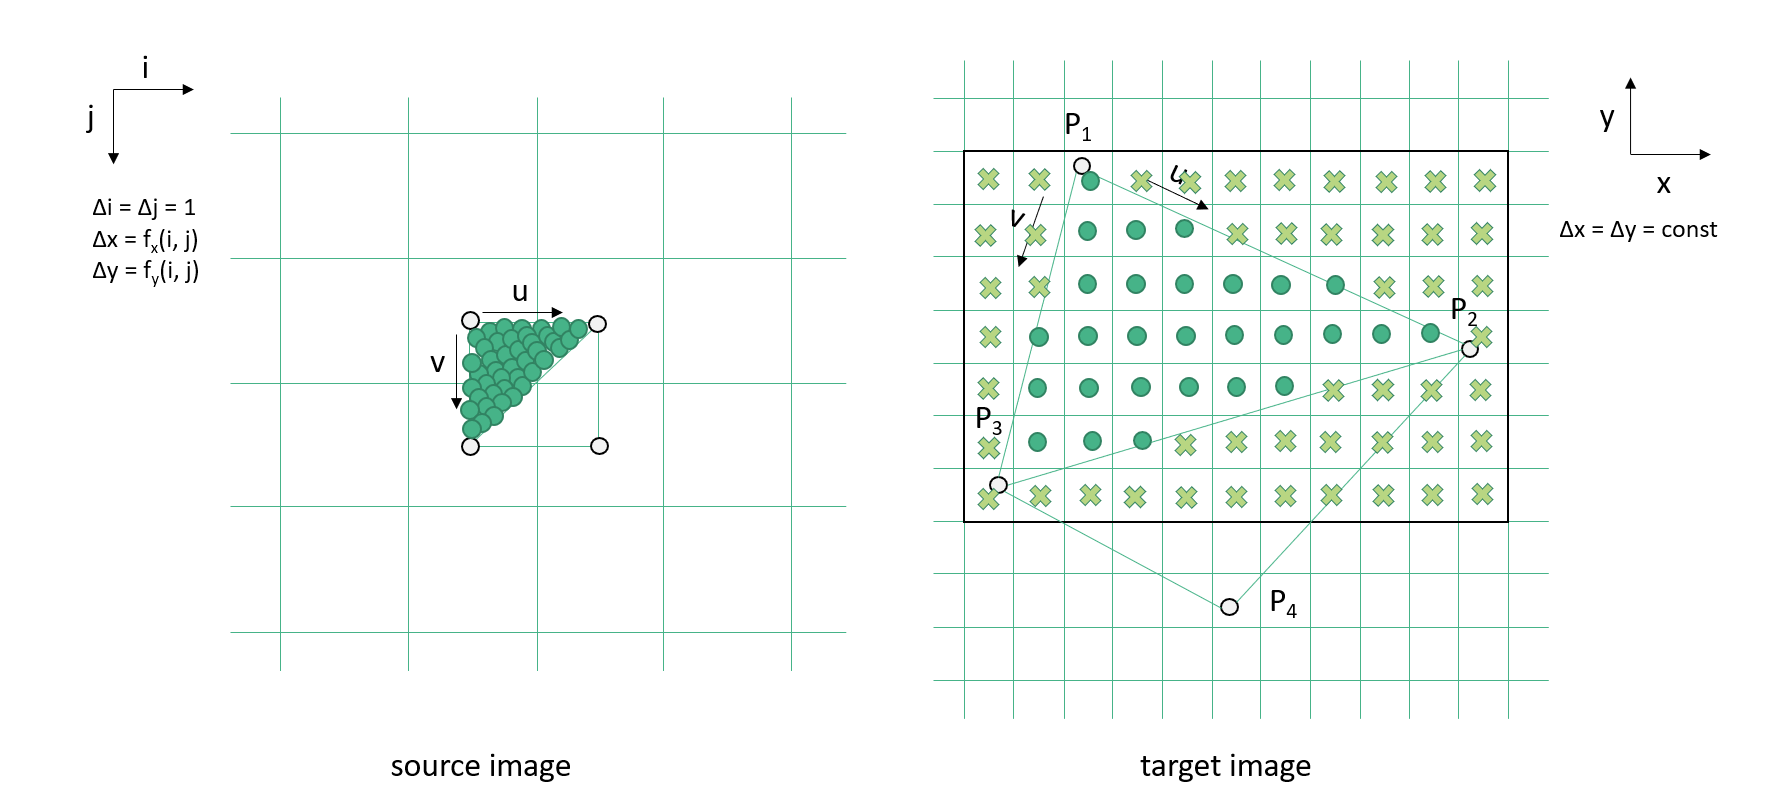
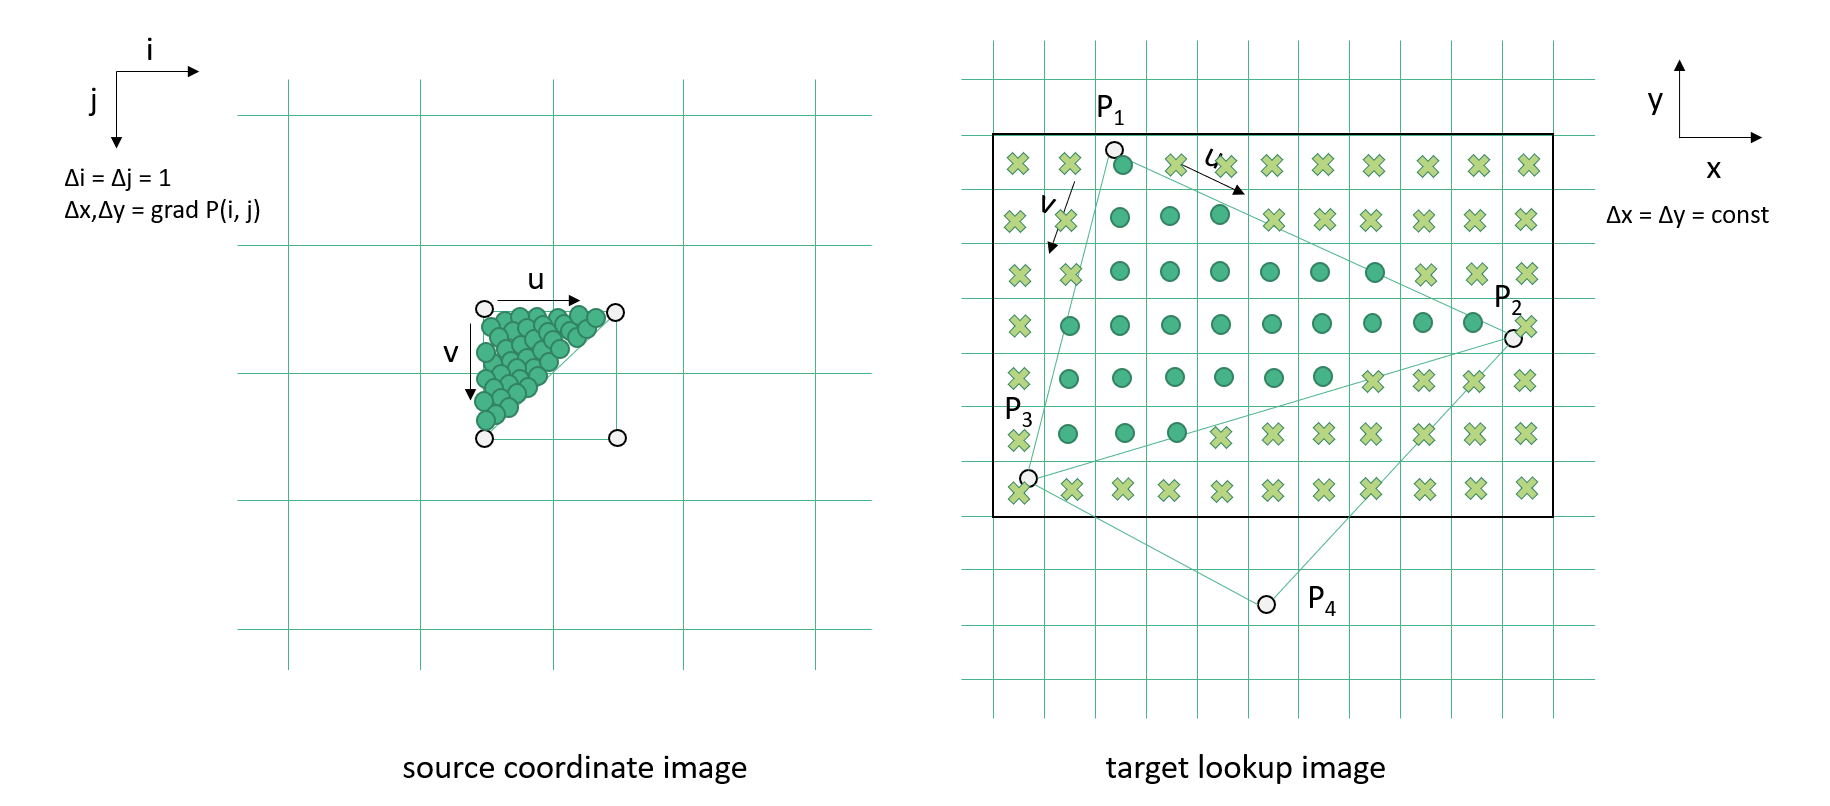
Completed doc.

diff --git a/docs/source/rectify.md b/docs/source/rectify.md
@@ -1,56 +1,112 @@
 # Spatial Rectification Algorithm
 
-This page describes the algorithm used in the function `rectify_dataset()` 
-of module `xcube.core.resampling`. This function performs a rectification of 
-2-dimensional satellite imagery from its original viewing geometry into a 
-common spatial coordinate reference system (CRS) that uses a cartesic 
-coordinate system. 
-It geometrically transforms data variables of a dataset with a provided 
-source image geometry (given as [grid mapping](TODO)) 
-into new data variables for a given target geometry. The source geometry 
-is assumed to be given in satellite perspective in form of two 2-dimensional 
-arrays of spatial coordinates, one for each spatial dimension. 
-We also assume that coordinates of the viewing geometry are already 
-terrain corrected with respect to a digital elevation model (DEM) that 
-represents the Earth's geoid. The following figure illustrates the situation:
+This chapter describes the algorithm used in the function [`rectify_dataset()`](api.html#xcube.core.resampling.rectify_dataset) 
+of module `xcube.core.resampling`. The function geometrically transforms 
+spatial [data variables](https://docs.xarray.dev/en/stable/user-guide/terminology.html#term-Variable) 
+of a given [dataset](https://docs.xarray.dev/en/stable/user-guide/terminology.html#term-Dataset) 
+with from an irregular source 
+[grid mapping](https://cfconventions.org/Data/cf-conventions/cf-conventions-1.11/cf-conventions.html#grid-mappings-and-projections) 
+into new data variables for a given regular target grid mapping and returns 
+them as a new dataset. 
 
-<img src="rectify/geoid.png" alt="Geoid" style="width:40em;display:block;margin-left:auto;margin-right:auto"/>
+## Problem Description
 
-Thus, for each source pixel we have a spatial coordinates pair *x,y* which
+The following figure shows a Sentinel-3 OLCI Level-1b scene in its original 
+satellite perspective. In addition to the measured reflectances, the data 
+product also provides the latitude and longitude for each pixel as two 
+individual coordinate images. To the right, the absolute value of the gradient 
+vectors of the latitude and longitude are shown:  
+
+<!-- <img src="rectify/olci-input.png" alt="OLCI L1B Input" style="width:60em;display:block;margin-left:auto;margin-right:auto"/> -->
+![OLCI L1B Input](rectify/olci-input.png)
+
+The given coordinates, latitude and longitude, are _terrain corrected_ with 
+respect to a digital elevation model (DEM) that represents the Earth's geoid.
+Therefore, the gradient vectors are not monotonically varying over the scene, 
+instead they represent the roughness of the geoid surface. This is depicted
+by the following figure:
+
+<!-- <img src="rectify/geoid.png" alt="Geoid" style="width:30em;display:block;margin-left:auto;margin-right:auto"/> -->
+![Geoid](rectify/geoid.png)
+
+A _rectification_ is the transformation of satellite imagery from its original 
+viewing geometry into a target geometry that forms a regular grid in a defined 
+coordinate reference system (CRS) with uniform spatial resolution for each 
+pixel in each dimension. For the Sentinel-3 OLCI Level-1b scene above, the
+rectified measurement image for the geographic projection (CRS EPSG:4326) 
+is shown here:
+
+<!-- <img src="rectify/olci-output.png" alt="OLCI L1C Output" style="width:60em;display:block;margin-left:auto;margin-right:auto"/> -->
+![OLCI L1C Output](rectify/olci-output.png)
+
+
+## Algorithm Description
+
+The input to the rectification algorithm is satellite imagery in satellite 
+viewing perspective. In addition, two images - one for each spatial dimension -
+provide the terrain corrected spatial coordinates.
+Thus, for each source pixel we have a given spatial coordinate pair *x,y* which
 is assumed to refer to an image pixel's center at *i + ½, j + ½*. 
-The combined *x, y* images represent the surface of the Earth geoid as seen 
-from the satellite. 
 
-<img src="rectify/olci-input.png" alt="OLCI L1B Input" style="width:60em;display:block;margin-left:auto;margin-right:auto"/>
+While the gradient of the coordinate images, *Δx* and *Δy* per pixel, is 
+generally not constant in the source image geometry, we demand for the
+output of the rectification algorithm *Δx = Δy = const* for all pixels in 
+the generated target images.
 
-While the deltas between the pixel coordinates, 
-*Δx* and *Δy*, are generally not constant in the source image geometry, we 
-demand a unique spatial pixel size *Δx = Δy = const.* in the target image 
-geometry.
+A fast and simple algorithm to perform the rectification is to visit each
+source pixel *i,j*, collect the spatial coordinates *P = x,y*, span
+two triangles between four adjacent coordinates,
+*(P1, P2, P3)* and *(P2, P4, P3)*, and "paint" fractional source pixel
+coordinates into a new target lookup image. The lookup image can than be used 
+to retrieve the source pixel values for a target image, either by nearest 
+neighbor lookup or by interpolation.
 
-The transformation algorithm described here is fast and simple.  
-Given that the spatial pixel size in the target geometry is equal or less the 
-pixel size of the source geometry, the algorithm is also general and accurate:
-we walk through all *P = x, y* in the source image, span triangles between 
-adjacent *P1, P2, P3*, and "paint" the triangles into a new 
-rectified target image that contains the fractional source pixel 
-coordinates *i + u, j + v*.
+<!-- <img src="rectify/source-coords.png" alt="Source coordinates" style="width:60em;display:block;margin-left:auto;margin-right:auto"/> -->
+![Source coordinates](rectify/source-coords.png)
 
-<img src="rectify/source-coords.png" alt="Source coordinates" style="width:60em;display:block;margin-left:auto;margin-right:auto"/>
+The true geoid surface is fractal, hence there is no defined "best guess" for 
+any point *P(i+u,j+v)* with *0 ≤ u ≤ 1, 0 ≤ v ≤ 1* in between the given coordinates 
+points at *P(i+½, j+½)*. Hence, we use triangulation for its simplicity so 
+that any in-between *P* is found by linear interpolation.
 
-The spatial surface described by the field of supporting points 
-*P(i+½, j+½) = x, y* is representing the Earth's rough geoid surface. 
-As the true surface is a 2D-fractal, there is no defined "best guess" for 
-any point *P(i,j)* in between the supporting points at *P(i+½, j+½)*. 
-Hence, we use triangulation for its simplicity so that any in-between 
-*P* is found by linear interpolation.
+From the coordinates *(P1, P2, P3)* of the first source triangle, the bounding
+box in pixel coordinates in the target image can be exactly determined, 
+because the target grid is regular, *P = x0 + i Δx, y0 - j Δy*, for each 
+target pixel *i,j* and target pixel size *Δx,Δy*. Given *P* and the plane
+given by *(P1, P2, P3)* the parameters *u,v* can be computed according to
+*P = P1 + u (P2 – P1) + v (P3 – P1)*. 
+If *0 ≤ u ≤ 1, 0 ≤ u ≤ 1, u+v ≤ 1*, then *P* is a point within the 
+triangle. 
 
+<!-- <img src="rectify/algo-1.png" alt="Algorithm #1" style="width:60em;display:block;margin-left:auto;margin-right:auto"/> -->
+![Algorithm #1](rectify/algo-1.png)
 
-<img src="rectify/algo-1.png" alt="Algorithm #1" style="width:60em;display:block;margin-left:auto;margin-right:auto"/>
+At the same time, *u* and *v* are the fractions of source pixel
+coordinate, *i + ½ + u* and *j + ½ + v*, which will be both stored in two 
+target lookup images.
 
-<img src="rectify/algo-2.png" alt="Algorithm #2" style="width:60em;display:block;margin-left:auto;margin-right:auto"/>
+<!-- <img src="rectify/algo-2.png" alt="Algorithm #2" style="width:60em;display:block;margin-left:auto;margin-right:auto"/> -->
+![Algorithm #2](rectify/algo-2.png)
 
-<img src="rectify/algo-3.png" alt="Algorithm #3" style="width:60em;display:block;margin-left:auto;margin-right:auto"/>
+After all source pixels have been processed, the resulting target lookup 
+images containing the fractional source pixel indexes, *i + ½ + u* 
+and *j + ½ + v*, can be used to efficiently map source measurements images 
+into target measurements images. 
 
+<!-- <img src="rectify/algo-3.png" alt="Algorithm #3" style="width:60em;display:block;margin-left:auto;margin-right:auto"/> -->
+![Algorithm #3](rectify/algo-3.png)
 
-<img src="rectify/olci-output.png" alt="OLCI L1C Output" style="width:60em;display:block;margin-left:auto;margin-right:auto"/>
+In the simplest case, as shown above, a nearest neighbor lookup is performed 
+according to:  
+    *V = V2 if u > ½*  
+    *V = V3 if v > ½*  
+    *V = V1 else*  
+
+The fractions *u,v* can also be used to perform a bilinear interpolation 
+between the four adjacent measurements pixels:  
+    *VA = V1 + u (V2 - V1)*  
+    *VB = V3 + u (V4 - V3)*  
+    *V = VA + v (VB - VA)*  
+
+with *V1 = V(i,j)*, *V2 = V(i+1,j)*, *V3 = V(i,j+1)*, and *V4 = V(i+1,j+1)* 
+being the pixel values of a measurement image *V*.

diff --git a/docs/source/index.rst b/docs/source/index.rst
@@ -31,9 +31,11 @@ cubes from EO data.
    :maxdepth: 1
 
    cubespec
+   mldatasets
    storeconv
    devguide
    plugins
+   rectify
 
 
 Indices and tables
